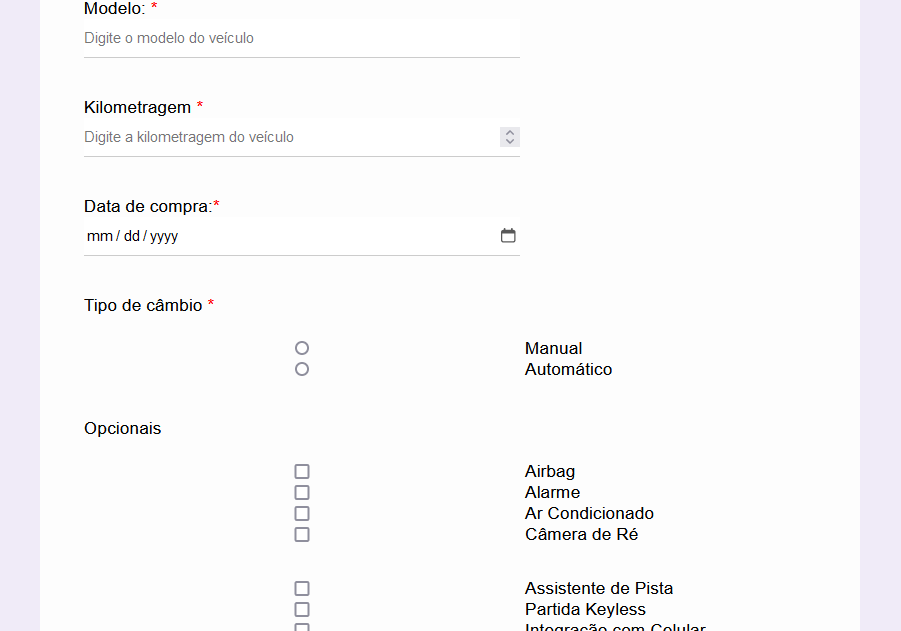
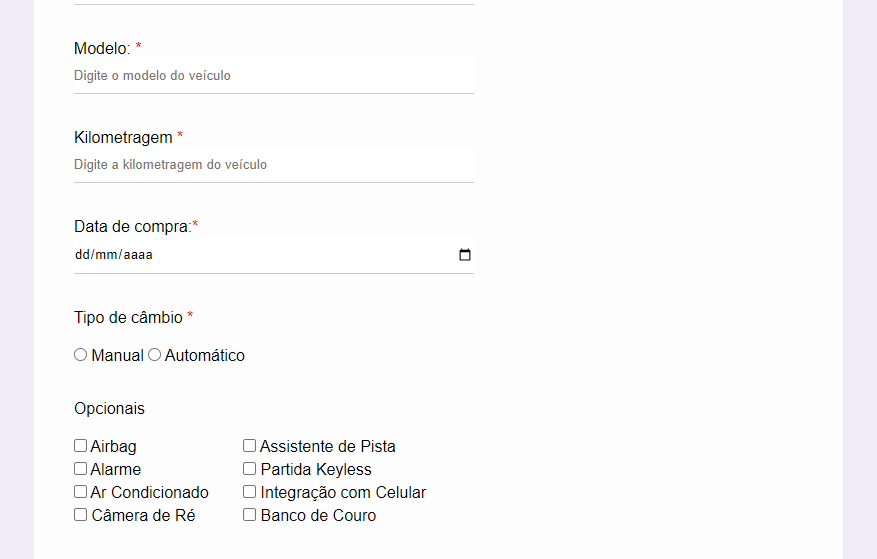
Finalização do projeto com os arquivos corrigidos

diff --git a/index.html b/index.html
@@ -33,7 +33,7 @@
                         </div>
                         <div class="box-input">
                             <label for="brand">Marca: <span id="span">*</span></label>
-                        <input type="brand" name="marca" id="marca" class="block" placeholder="Digite a marca do veículo" required>
+                        <input type="text" name="marca" id="marca" class="block" placeholder="Digite a marca do veículo" required>
                         </div>
                         <div class="box-input">
                             <label for="model">Modelo: <span id="span">*</span></label>
@@ -58,12 +58,7 @@
                             <p>Opcionais</p>
                             <ul class="optional-list">
                               <li>
-                                <input
-                                  type="checkbox"
-                                  id="airbag"
-                                  name="optional[]"
-                                  value="airbag"
-                                />
+                                <input type="checkbox" name="optional[]" id="airbag" value="airbag">
                                 <label for="airbag">Airbag</label>
                               </li>
                               <li>

diff --git a/css/styles.css b/css/styles.css
@@ -30,22 +30,22 @@ h5 {
 input {
     border: none;
     border-bottom: 1px solid #ccc;
-    width:400px;
     padding: 10px 0px;
 }
 
-input[type="radio"] {
-    border: 1px solid red;
-    color: #673ab7;
+input[type="date"],
+input[type="number"],
+input[type="text"],
+input[type="brand"] {
+  width: 400px  ;
 }
 
 textarea {
     width:400px;
-    height:60px;
+    height:50px;
     padding:10px;
     margin-top: 5px;
 }
-
 
 .form-container {
     background-color: #fdfdfd;
@@ -58,7 +58,6 @@ textarea {
 .form-header {
     border-bottom: 1px solid #dfdfdf;
     height: 45px;
-       
 }
 
 .form-header p {
@@ -97,16 +96,14 @@ textarea {
 }
 
 .optional-box {
-    display: inline-block;
+    display:inline-block ;
     margin: 0 30px 30px 0;
 }
 
 .optional-list li {
     list-style: none;
+    padding-bottom: 5px;
 }
-
-
-
 
 .btn-submit {
     color: #fff;
@@ -115,6 +112,7 @@ textarea {
     width: 200px;
     padding: 20px 0;
     font-weight: bold;
+    border-radius: 10px;
 }
 
 

diff --git a/README.md b/README.md
@@ -1,6 +1,6 @@
 # Formulário Básico 
 
-### Formulário criado em janerio/2024 para praticar conhecimentos em HTML e CSS.
+### Formulário criado em janeiro/2024 para praticar conhecimentos em HTML e CSS.
 
 ### Primeria tela:
 ![Alt text](img/firstimg.png)
